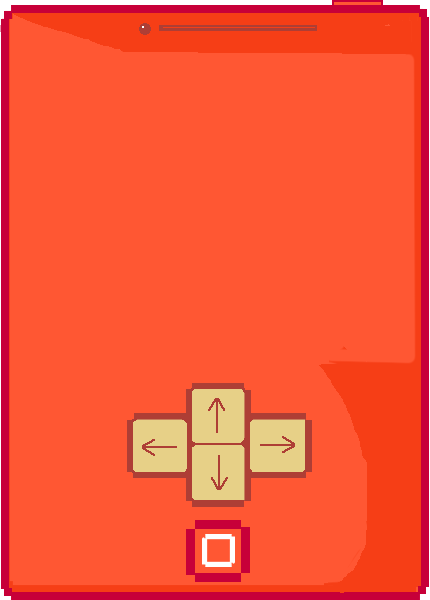
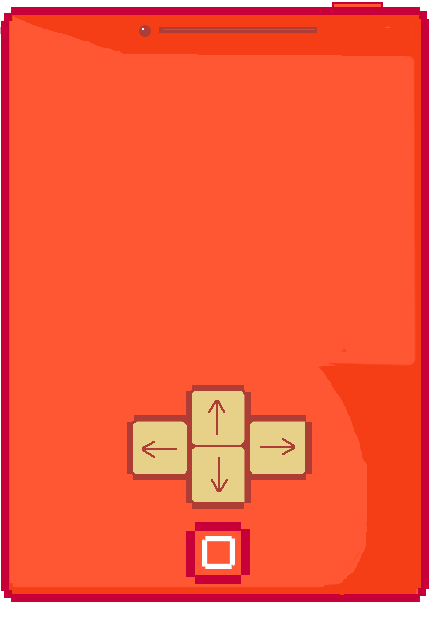
added credits

diff --git a/js/ChargerPlayGame.js b/js/ChargerPlayGame.js
@@ -353,7 +353,7 @@ function initGame(){
 	0,0,0,0,0,0,0,0,0,0,0,0,0,0,0,1,0,1,0,0,1,0,1,0,0,0,0,0,0,1,0,1,0,0,0,0,0,0,0,0,
 	0,0,0,0,0,0,0,0,0,0,0,0,0,0,0,1,0,1,0,0,1,0,1,0,0,0,0,0,0,1,0,1,0,0,0,0,0,0,0,0
 	]);
-	
+
 	charger.game.phone_background = charger.game.add.sprite(0, 0, 'phone');
 	charger.game.status_bar = charger.game.add.sprite(15, 47, 'statusBar');
 	charger.game.battery_bar = charger.game.add.sprite(325, 55, 'battery_bar');
@@ -379,6 +379,7 @@ function initGame(){
 	charger.game.player = null;
 	charger.game.scoreText = charger.game.add.text(25, 47, 'SCORE: 0', { font: "30px VT323", fill: '#844' });
 	charger.game.scoreText_screen = null;
+	charger.game.credits = charger.game.add.text(75, 599, 'by STEVEN MARTURANO and NGAN NGUYEN', { font: "20px VT323", fill: '#c70039' });
 
 	charger.game.timer = charger.game.time.create(false);
 	charger.game.timer.loop(1000, timerTick, this);

diff --git a/js/ChargerMain.js b/js/ChargerMain.js
@@ -1,5 +1,5 @@
 var charger = charger || {};
-charger.game = new Phaser.Game(430, 600, Phaser.AUTO, 'phaser-game', null, true);
+charger.game = new Phaser.Game(430, 620, Phaser.AUTO, 'phaser-game', null, true);
 
 charger.game.state.add('Preload', charger.Preload);
 charger.game.state.add('PlayGame', charger.PlayGame);
